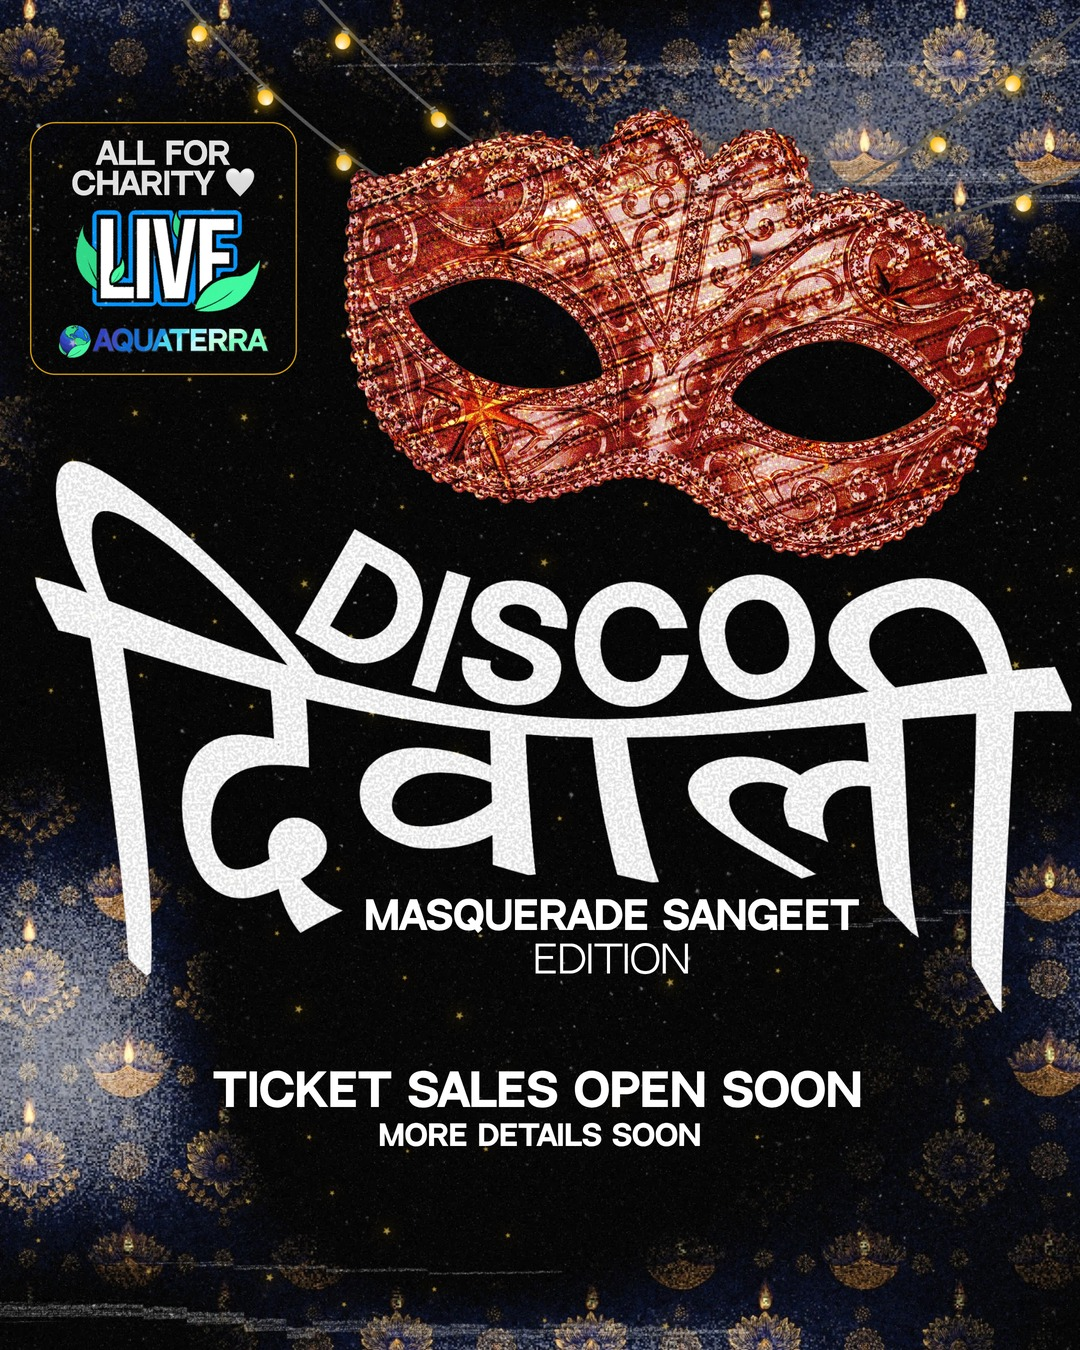
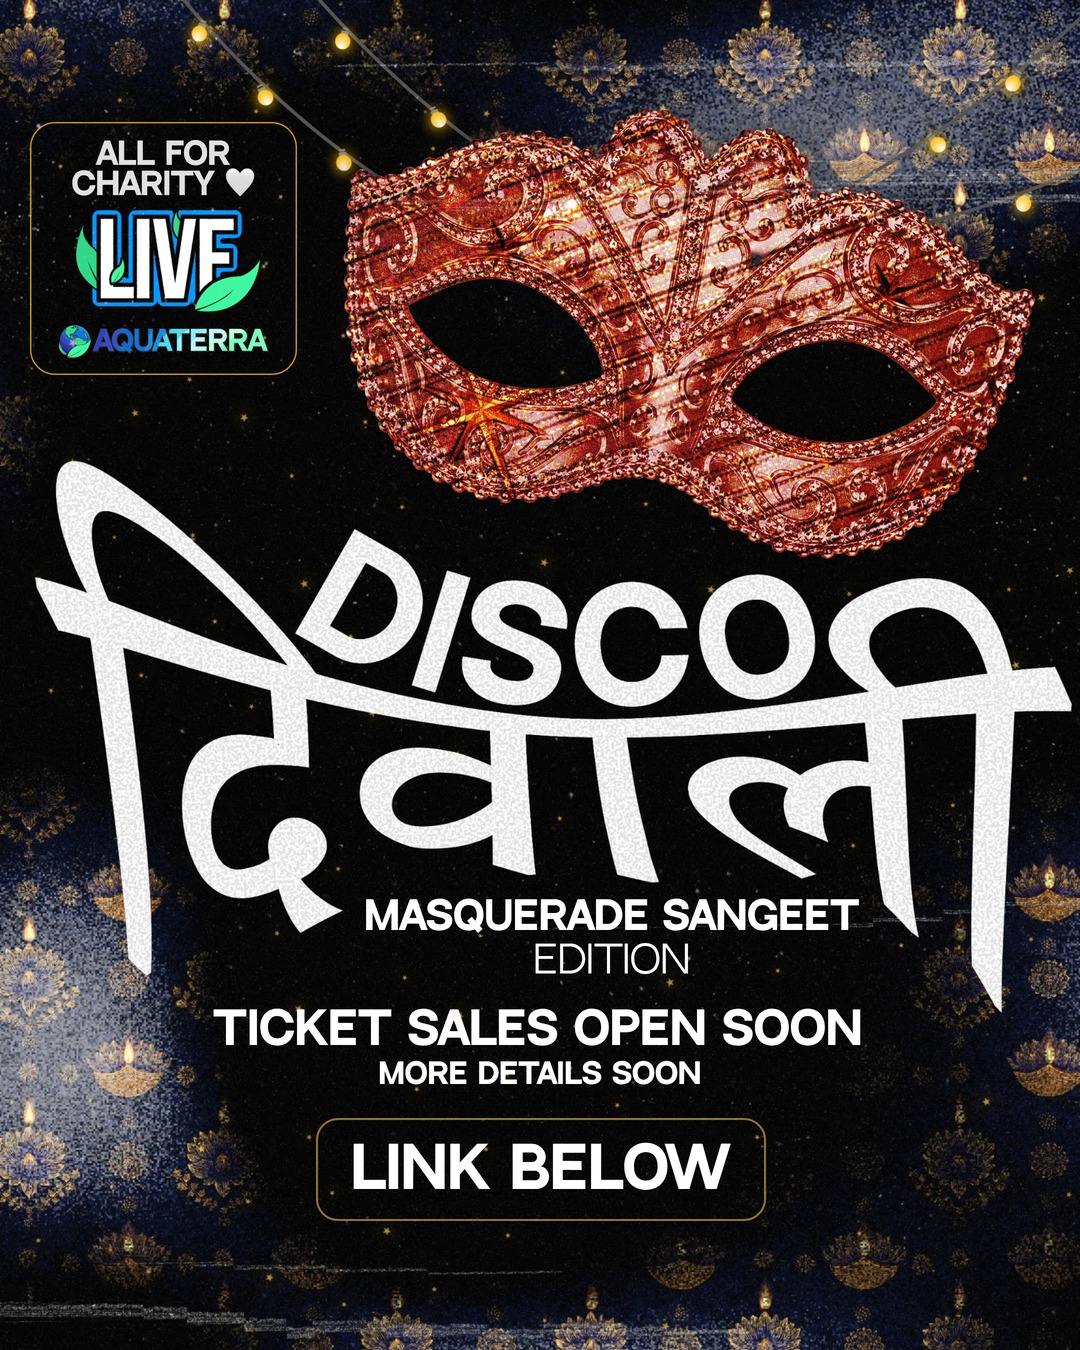
Disco Diwali: WhatsApp poster with the pill reading LINK BELOW
Claude-Session: https://claude.ai/code/session_01SvqxkoTEENgXPyjFifmnqB

Changed region(s): [[0.1833, 0.7467, 0.7944, 0.9022]]

diff --git a/scratchpad/dd_wa_poster.py b/scratchpad/dd_wa_poster.py
@@ -1,9 +1,9 @@
-"""WhatsApp poster in the approved feed layout (poster_ref with link=False). Writes out/discodiwali/launch/whatsapp_poster_v2.png.  Run: PYTHONIOENCODING=utf-8 python scratchpad/dd_wa_poster.py"""
+"""WhatsApp poster in the approved feed layout (poster_ref with link="Link below"). Writes out/discodiwali/launch/whatsapp_poster_v2.png.  Run: PYTHONIOENCODING=utf-8 python scratchpad/dd_wa_poster.py"""
 import asyncio, importlib.util, os, sys
 ROOT = os.path.dirname(os.path.dirname(os.path.abspath(__file__)))
 sys.path.insert(0, os.path.join(ROOT, "engine"))
 spec = importlib.util.spec_from_file_location("discodiwali", os.path.join(ROOT, "engine", "discodiwali.py"))
 dd = importlib.util.module_from_spec(spec); spec.loader.exec_module(dd)
-BRIEF = dict(edition="Masquerade Sangeet Edition", status="Ticket sales open soon", note="More details soon", link=False)
+BRIEF = dict(edition="Masquerade Sangeet Edition", status="Ticket sales open soon", note="More details soon", link="Link below")
 asyncio.run(dd.render_poster("poster_ref", BRIEF, "feed", os.path.join(ROOT, "out", "discodiwali", "launch", "whatsapp_poster_v2.png")))
 print("whatsapp poster done")

diff --git a/scratchpad/test_discodiwali.py b/scratchpad/test_discodiwali.py
@@ -283,4 +283,9 @@ ok(wb["title"] == prb["title"] and wb["mask"] == prb["mask"] and wb["badge"] == 
 ok(wb["status"][2] > prb["status"][2], "the info lines drop into the freed space")
 ok("LINK IN BIO" in visible_text(prh), "the Instagram poster keeps its link pill")
 
+# --- WhatsApp poster with the pill reading LINK BELOW (user, 2026-10-13) ---------------------------------------------------------------
+bq = dd.Poster("poster_ref", dict(PR, link="Link below"), "feed"); bh = bq.build(); bb = {e[0]: e for e in bq.elements}
+ok("LINK BELOW" in visible_text(bh) and "LINK IN BIO" not in visible_text(bh), "the pill reads LINK BELOW and not LINK IN BIO")
+ok(all(bb[k] == prb[k] for k in prb) and set(bb) == set(prb), "every element sits exactly where it does on the Instagram poster")
+
 print(f"\nALL {N} ASSERTIONS PASSED")
